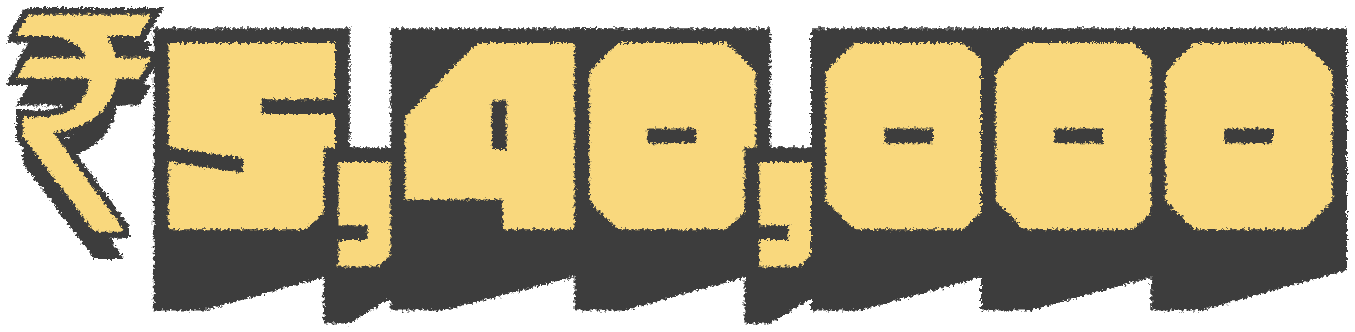
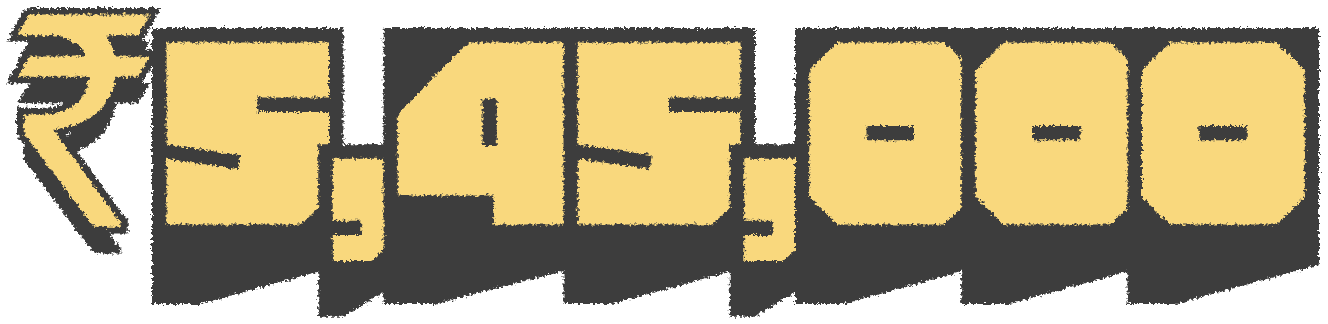
Update funds raised to ₹5,45,000
Copilot-Session: 6b053570-c99d-432e-a100-94753c2b1219

diff --git a/index.html b/index.html
@@ -8,14 +8,14 @@
   <link rel="preconnect" href="https://fonts.googleapis.com">
   <link rel="preconnect" href="https://fonts.gstatic.com" crossorigin>
   <link href="https://fonts.googleapis.com/css2?family=DM+Sans:wght@400;500;600;700&amp;family=Fraunces:opsz,wght@9..144,600;9..144,700;9..144,800&amp;family=Archivo+Black&amp;display=swap" rel="stylesheet">
-  <link rel="stylesheet" href="styles.css?v=187">
-  <script src="img-loading.js?v=187"></script>
+  <link rel="stylesheet" href="styles.css?v=188">
+  <script src="img-loading.js?v=188"></script>
   <script>
     if (location.hostname === "localhost" || location.hostname === "127.0.0.1") {
       document.write('<script src="vibehub-storage-local.js" data-project-id="studio91-give-bazaar-2026"><\/script>');
     }
   </script>
-  <script src="winners.js?v=187" defer></script>
+  <script src="winners.js?v=188" defer></script>
 </head>
 <body>
   <a class="skip-link" href="#main">Skip to content</a>
@@ -36,13 +36,13 @@
         <div class="raised-stage">
           <img class="raised-stage__heart" src="heart-sparkle.png" alt="" aria-hidden="true">
           <p class="raised-stage__eyebrow">Funds raised with Microsoft match</p>
-          <p class="raised-stage__amount"><img class="raised-stage__amount-art" src="amount-raised.png" alt="₹5,40,000" width="678" height="166"></p>
+          <p class="raised-stage__amount"><img class="raised-stage__amount-art" src="amount-raised.png?v=188" alt="₹5,45,000" width="664" height="162"></p>
           <p class="raised-stage__sub">Studio+91 · GIVE Bazaar 2026</p>
           <ul class="raised-stage__faces" id="winnerRing" aria-label="Our bid winners"></ul>
         </div>
         <h1 class="joy-title">Celebrating the <em>joy of giving</em></h1>
         <p class="donated-count" id="donatedCount"></p>
-        <h2 id="resultsTitle" class="sr-only">Together we raised ₹5,40,000</h2>
+        <h2 id="resultsTitle" class="sr-only">Together we raised ₹5,45,000</h2>
       </div>
 
       <ol class="flow-steps flow-steps--three" aria-label="How it works">

diff --git a/contributions.html b/contributions.html
@@ -8,14 +8,14 @@
   <link rel="preconnect" href="https://fonts.googleapis.com">
   <link rel="preconnect" href="https://fonts.gstatic.com" crossorigin>
   <link href="https://fonts.googleapis.com/css2?family=DM+Sans:wght@400;500;600;700&amp;family=Fraunces:opsz,wght@9..144,600;9..144,700;9..144,800&amp;family=Archivo+Black&amp;display=swap" rel="stylesheet">
-  <link rel="stylesheet" href="styles.css?v=187">
-  <script src="img-loading.js?v=187"></script>
+  <link rel="stylesheet" href="styles.css?v=188">
+  <script src="img-loading.js?v=188"></script>
   <script>
     if (location.hostname === "localhost" || location.hostname === "127.0.0.1") {
       document.write('<script src="vibehub-storage-local.js" data-project-id="studio91-give-bazaar-2026"><\/script>');
     }
   </script>
-  <script src="app.js?v=187" defer></script>
+  <script src="app.js?v=188" defer></script>
 </head>
 <body>
   <a class="skip-link" href="#main">Skip to content</a>
